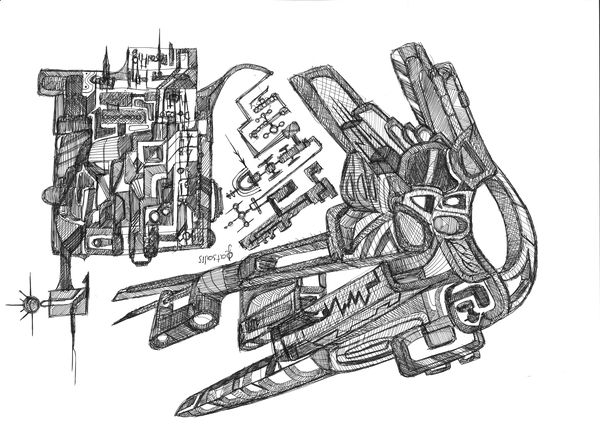
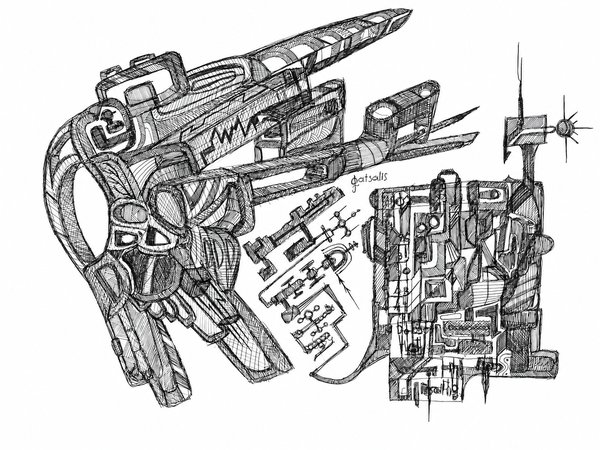
jdj

diff --git a/portofolio.html b/portofolio.html
@@ -427,8 +427,8 @@
                     </li>
                     <li>
                         <figure class="work">
-                            <button type="button" class="work__open" data-full="images/portofolio/display/art_1.jpg" data-title="Somewhere 1884" aria-label="Somewhere 1884">
-                                <img src="images/portofolio/thumbs/art_1.jpg" alt="Historical abstract landscape evoking the year 1884 with architectural and organic forms." width="600" height="463" loading="lazy" decoding="async">
+                            <button type="button" class="work__open" data-full="images/portofolio/display/art_1.jpg?v=2" data-title="Somewhere 1884" aria-label="Somewhere 1884">
+                                <img src="images/portofolio/thumbs/art_1.jpg?v=2" alt="Historical abstract landscape evoking the year 1884 with architectural and organic forms." width="450" height="600" loading="lazy" decoding="async">
                             </button>
                             <figcaption class="work__label">Somewhere 1884</figcaption>
                         </figure>